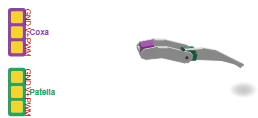
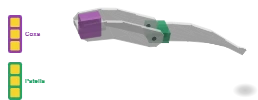
v2026.8.56 : la patte grossit, le PMMA se traverse enfin
La patte seule est calee a 40 px des pastilles du connecteur et double de
taille (feuille 250x300, connecteur en (0,110)) ; les textes GND/V+/PWM
quittent le dessin, la bulle d'aide les dit deja.

La carte 16 servos n'est plus deformee : simplifyPoly ancre le contour sur
ses coins (>20 deg) et n'allege que les arcs entre deux coins — a 26x19 px
Douglas-Peucker rabotait ses encoches et inventait un flanc de corps.

La transparence est geree : elle est portee par la PIECE (groupe de faces
peintes pleines dans un <g opacity>), plus par chaque triangle. opaque()
disparait, et on voit enfin la plaque du bas a travers celle du haut.

verify:assemblage 247 controles, verify:araignee 72/72.

diff --git a/todo.md b/todo.md
@@ -1,8 +1,6 @@
 # À faire
-1. Rapprocher la patte des connecteur (décaler de 40 pixels vers la gauche pour être à  40 pixels des pastille des connecteurs ddes servo)  et la grossir (doubler). Les texte GND, V+ et PWM ne doivent apparaitre que sur le bulles d'aide
-1. Monter l'électreonique embarqué affiche une carte 16 servo TROP déformée et un deuxieme falns de corps inférieur
-1. La transparence n'est pas gérée
-1. on dirais que la plaque du bas du corps n'est pas au dessus de celle du haut mais décalée vers le fond. Ou plutôt le haut décalé vers L'avant.
+1. v2026.8.55 : Horloge pico ne fonctionne plus du tout. Pas de simulation. Temps bloqué à 0. Même chose sur blink, 16 servo. Et pareil  avec les uno.  en décochant simulationworker puis fermeture et relance du projix ça marche. J'ai même l'horloge en temps réel pour la pico.
+1. vsix
 
 
 ##L'arraignée :
@@ -25,6 +23,18 @@
 # En réserve
 1. ⏳ Traduction FR du réglage `kablix.simulationWorker` (`package.nls.fr.json`) : sa description a changé avec le défaut activé — au lot de traductions d'avant publication.
 Les cinq lots du worker sont livrés (v2026.8.51 → v2026.8.55).
+
+# >>>>  v2026.8.56 — la patte grossit, le PMMA se traverse enfin
+
+1. ✅ **La patte est calée à 40 px des pastilles et a DOUBLÉ** (`patte-element.mts`) : la feuille passe de 210 × 170 à **250 × 300**, le connecteur descend en (0, 110) — ses six carrés dorés retombent sur la grille de 10 px (y = 120/130/140 puis 160/170/180) — et la mécanique est **calée à gauche** de sa zone, à exactement `PIN_GAP = 40` px des pastilles au lieu de flotter au centre. Mesuré : `x 50,1..215,9`, soit 40,1 px de marge. Le facteur d'échelle passe de 123 à 253 px utiles, **×2,05**.
+2. ✅ **Les textes `GND` / `V+` / `PWM` sont retirés du dessin** : ils ne servaient qu'à encombrer une vignette de 3 cm, et le nom de la broche est déjà dans la **bulle d'aide** au survol. Les étiquettes **Coxa** et **Patella** restent, elles disent l'articulation. Retrait fait au chargement du SVG (`PLUG_INNER`), le dessin de Frank n'est pas touché.
+3. ✅ **La carte 16 servos n'est plus déformée** (`simplifyPoly`, `iso3d.mts`) : au `k` du robot (0,657) le PCA9685 ne fait que **26 × 19 px** à l'écran, et l'allègement Douglas-Peucker (tolérance 0,7 px) rabotait ses **coins** — encoches effacées, rectangle tordu, et un bord parasite qui se lisait comme « un deuxième flanc de corps inférieur ». Le contour est maintenant **ancré sur ses coins** (tout sommet où le tracé tourne de plus de 20°), et seuls les arcs entre deux coins sont allégés. Un cercle, qui n'a aucun coin, est coupé en deux arcs comme avant.
+4. ✅ **La transparence est gérée** (`renderFaces`, `iso3d.mts`) : le PMMA de Frank redevient translucide. Elle était **volontairement écrasée** (`opaque()`) parce qu'une face translucide peinte triangle par triangle donnait au choix des coutures blanches (sans liseré) ou une toile d'araignée (avec) — chaque triangle se voyant à travers son voisin. La transparence est donc portée par la **PIÈCE** : ses faces sont marquées d'un numéro de groupe (`grouper`, posé par `boxFaces` et `slabCore`), peintes **pleines** dans un `<g opacity>` unique. Une matière translucide ne se traverse qu'une fois. `opaque()` est supprimé, plus un composant ne force l'opacité.
+5. ✅ **L'empilement des deux plaques du corps se lit enfin** : la géométrie était juste (mesuré : les deux copies de `supports` occupent le MÊME `x` à l'écran, −75,2..74,9, et ne diffèrent que de 27,5 px en `y`), c'est l'opacité forcée qui les rendait indiscernables — la plaque du bas, cachée, se lisait comme « décalée vers le fond ». On voit maintenant à travers celle du haut.
+6. ℹ **Compromis assumé** : une pièce translucide est triée à **une seule profondeur** (la moyenne de ses faces) au lieu d'une par triangle — même compromis que `empilement()` fait déjà pour les pièces entières. Les pièces opaques gardent leur tri par triangle, rien ne change pour elles.
+7. ✅ **Bancs** : `verify:assemblage` **247** contrôles (240 avant — 5 sur le regroupement translucide de `renderFaces`, 4 sur les coins de `simplifyPoly`), `verify:araignee` 72/72, `typecheck` vert. Illustrations recapturées (`_capture-part.mjs patte` et `araignee`), fiche `docs/fr/composants/patte.md` mise à jour (le nom des pastilles est dans la bulle d'aide).
+8. ℹ Schémas de test **inchangés** : les fils d'un `.projix` désignent les broches par leur nom, pas par leurs coordonnées — la patte peut grandir et son connecteur descendre sans qu'un seul câblage bouge.
+9. ⏳ `verify:i18n` reste **ROUGE** sur les dix `zero…` de la v2026.8.49 : les traductions attendent la publication.
 
 # >>>>  v2026.8.55 — le worker est allumé par défaut (lot 5)
 

diff --git a/docs/fr/composants/patte.md b/docs/fr/composants/patte.md
@@ -10,7 +10,7 @@ Catégorie de la palette : **Système**.
 
 ## Broches
 
-À gauche du dessin, le **connecteur** porte deux borniers 3 fils, un par articulation — **Coxa** (violet) et **Patella** (vert) — comme sur un servomoteur simple. Les trois **carrés dorés** de chaque bornier sont les points de connexion :
+À gauche du dessin, le **connecteur** porte deux borniers 3 fils, un par articulation — **Coxa** (violet) et **Patella** (vert) — comme sur un servomoteur simple. Les trois **carrés dorés** de chaque bornier sont les points de connexion ; leur nom n'est pas écrit sur le dessin, il apparaît dans la **bulle d'aide** au survol :
 
 | Broche | Rôle |
 |--------|------|
